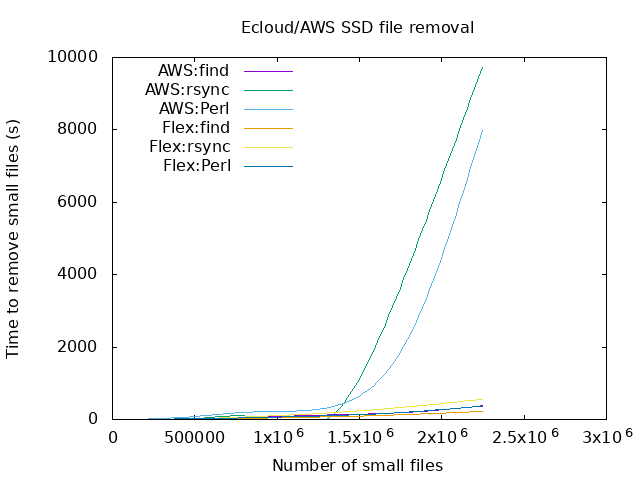
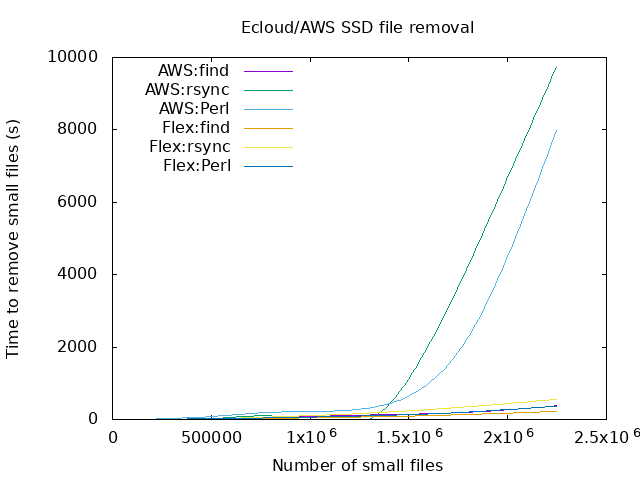
Improved x-axis range

Changed region(s): [[0.25, 0.8125, 0.875, 0.9375], [0.9062, 0.875, 1.0, 0.9375]]

diff --git a/README.md b/README.md
@@ -28,7 +28,10 @@ Needs tidying up considerably as was written in a hurry to prove how wrong I was
 
 ## Results
 
+For the below graphs, the lowest value of y is preferential as it represents seconds to remove files.
+
 ### Comparing all platforms
+
 
 ![Small file deletion platform comparison](deleting_small_files_all.png "Deletion of small files multi-platform")
 
